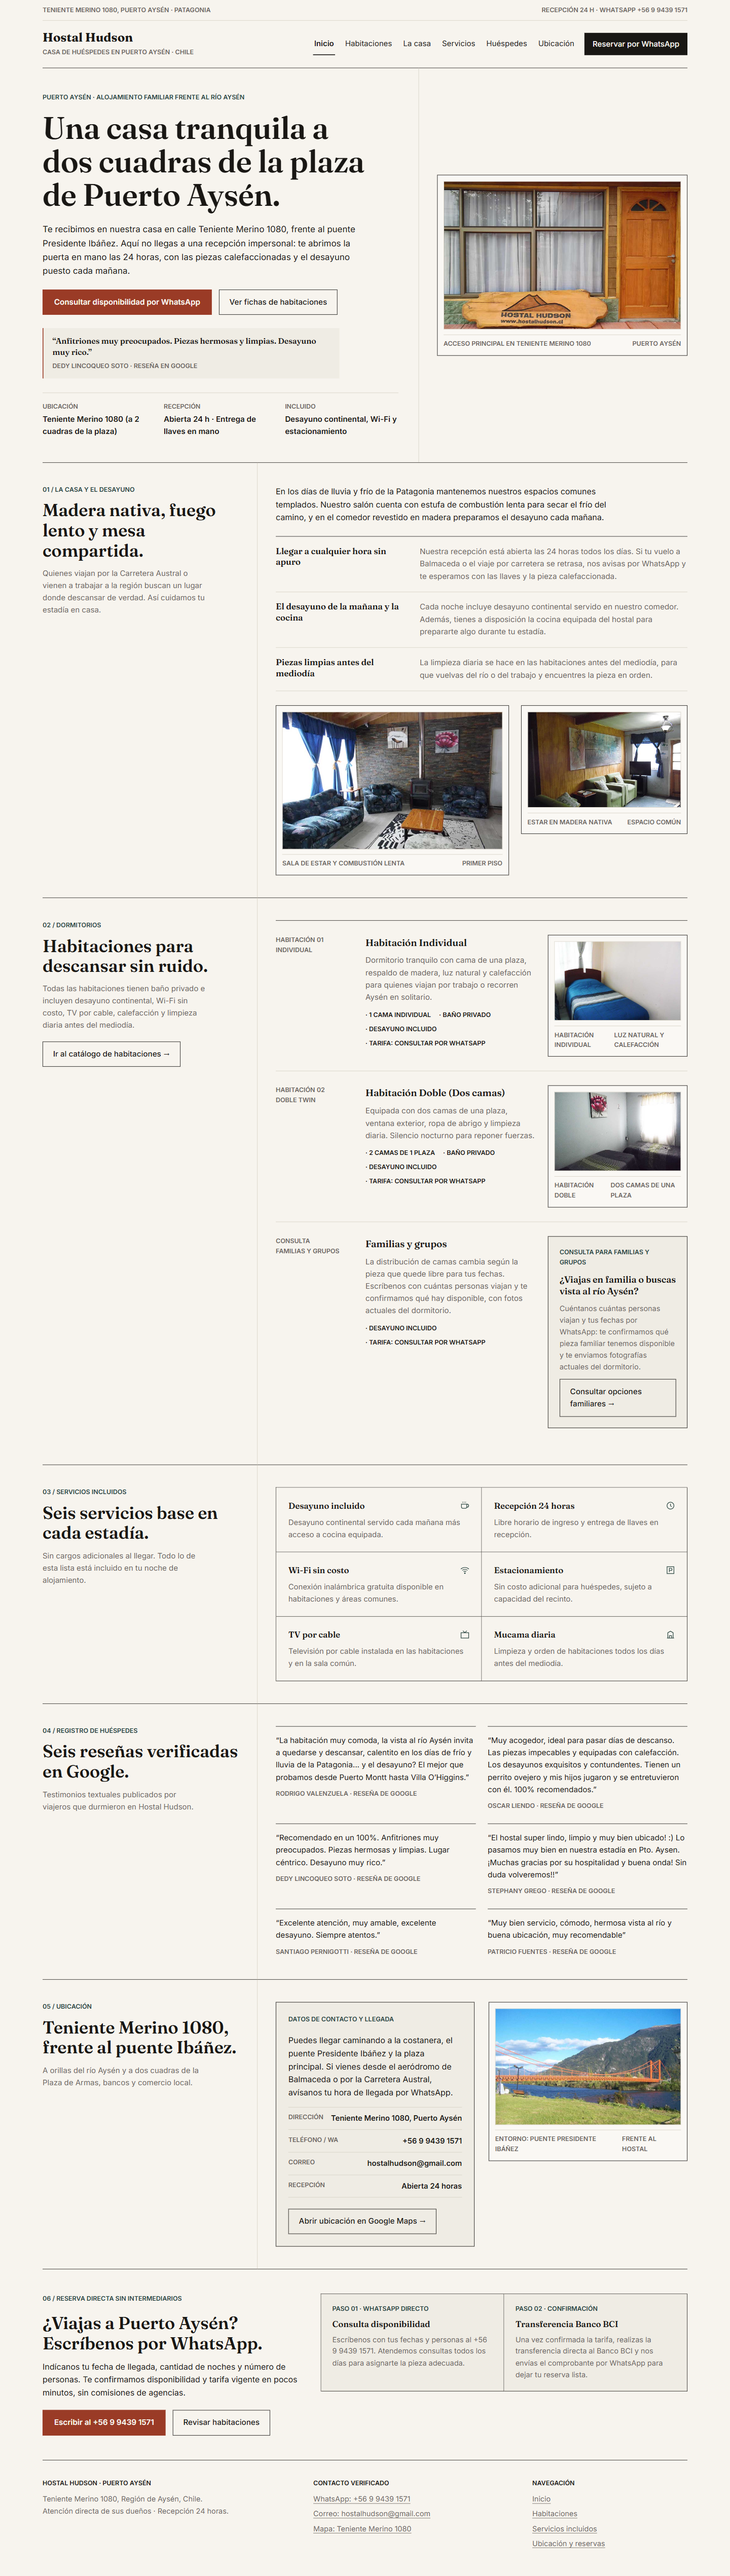
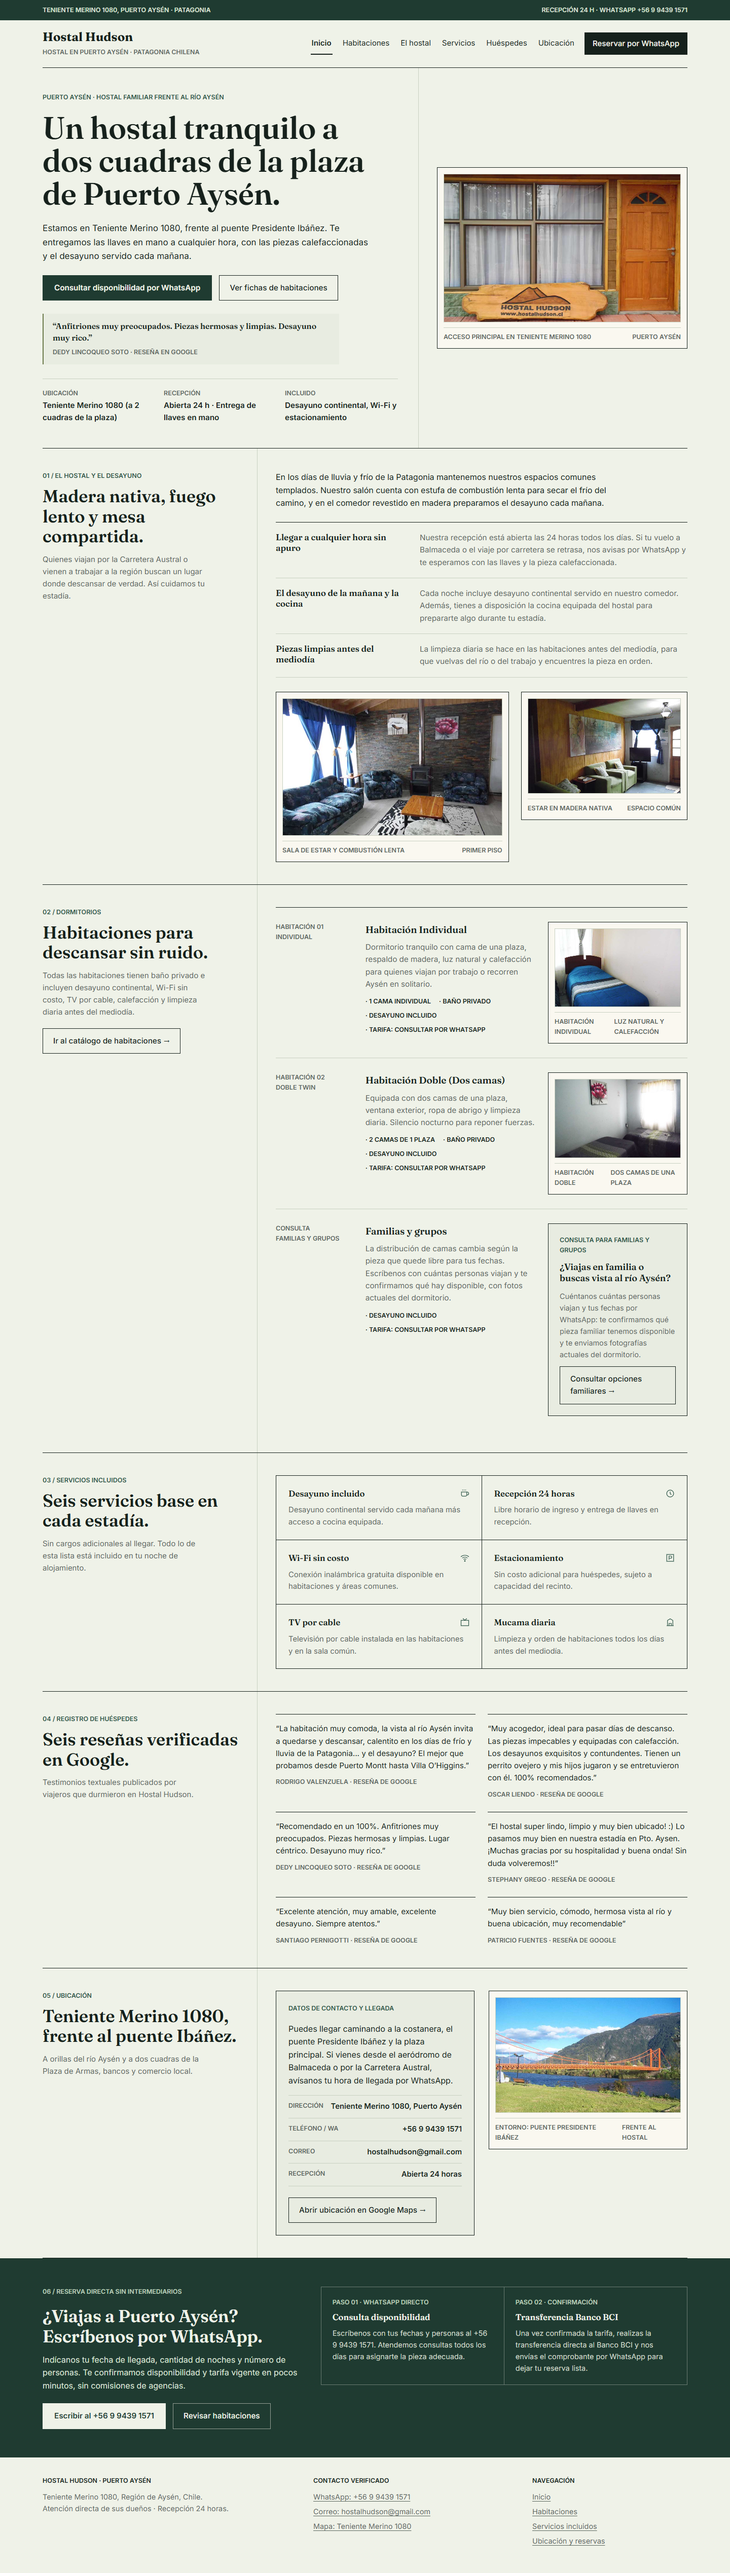
diseno: paleta verde y textos sin casa en la ruta A

diff --git a/docs/diseno/rutas/a-editorial-sobrio/styles.css b/docs/diseno/rutas/a-editorial-sobrio/styles.css
@@ -20,15 +20,16 @@
 }
 
 :root {
-  --bg-paper: #F7F4EE;
-  --bg-sheet: #EFECE4;
-  --bg-frame: #FAF8F4;
-  --ink: #191714;
-  --ink-muted: #6B655D;
-  --accent-oxide: #9A3B26;
-  --accent-forest: #24413C;
-  --rule-strong: #191714;
-  --rule-soft: #D5CFC3;
+  --bg-paper: #EFF2E8;
+  --bg-sheet: #E8ECE1;
+  --bg-frame: #FAF8F0;
+  --ink: #16211C;
+  --ink-muted: #5B675E;
+  --accent: #1F3B31;
+  --accent-soft: #2C5446;
+  --moss: #6C7A4B;
+  --rule-strong: #16211C;
+  --rule-soft: #C9D1C2;
 
   --font-display: 'Fraunces', 'FrauncesLocal', Georgia, 'Times New Roman', serif;
   --font-body: 'Inter', 'InterLocal', -apple-system, BlinkMacSystemFont, 'Segoe UI', sans-serif;
@@ -78,7 +79,7 @@ a {
 
 a:focus-visible,
 button:focus-visible {
-  outline: 2px solid var(--accent-oxide);
+  outline: 2px solid var(--accent);
   outline-offset: 3px;
 }
 
@@ -97,13 +98,16 @@ button:focus-visible {
 
 /* Barra superior de datos reales */
 .masthead-meta {
-  border-bottom: 1px solid var(--rule-soft);
+  background-color: var(--accent);
+  border-bottom: none;
+  margin-left: calc(50% - 50vw);
+  margin-right: calc(50% - 50vw);
   font-family: var(--font-body);
   font-size: var(--size-meta);
   font-weight: 600;
   text-transform: uppercase;
-  color: var(--ink-muted);
-  padding: 10px 0;
+  color: #D8E0D3;
+  padding: 10px calc(50vw - 50%);
   display: flex;
   justify-content: space-between;
   align-items: center;
@@ -181,7 +185,7 @@ button:focus-visible {
 }
 
 .site-nav a.nav-cta:hover {
-  background-color: var(--accent-oxide);
+  background-color: var(--accent);
 }
 
 /* Hero editorial 7/5 con foto contenida como documento */
@@ -204,7 +208,7 @@ button:focus-visible {
   font-family: var(--font-body);
   font-size: var(--size-meta);
   font-weight: 600;
-  color: var(--accent-forest);
+  color: var(--accent-soft);
   text-transform: uppercase;
   margin-bottom: 18px;
   display: block;
@@ -235,7 +239,7 @@ button:focus-visible {
 }
 
 .hero-pullquote {
-  border-left: 2px solid var(--accent-oxide);
+  border-left: 2px solid var(--moss);
   background-color: var(--bg-sheet);
   padding: 14px 18px;
   margin-bottom: 28px;
@@ -266,12 +270,12 @@ button:focus-visible {
   justify-content: center;
   min-height: 46px;
   padding: 12px 22px;
-  background-color: var(--accent-oxide);
+  background-color: var(--accent);
   color: var(--bg-paper);
   text-decoration: none;
   font-weight: 600;
   font-size: 0.95rem;
-  border: 1px solid var(--accent-oxide);
+  border: 1px solid var(--accent);
 }
 
 .btn-primary:hover {
@@ -375,7 +379,7 @@ button:focus-visible {
   font-size: var(--size-meta);
   font-weight: 600;
   text-transform: uppercase;
-  color: var(--accent-forest);
+  color: var(--accent-soft);
   display: block;
   margin-bottom: 10px;
 }
@@ -509,7 +513,7 @@ button:focus-visible {
   font-size: var(--size-meta);
   font-weight: 600;
   text-transform: uppercase;
-  color: var(--accent-forest);
+  color: var(--accent-soft);
   display: block;
 }
 
@@ -557,7 +561,7 @@ button:focus-visible {
 .service-icon-svg {
   width: 18px;
   height: 18px;
-  stroke: var(--accent-forest);
+  stroke: var(--accent-soft);
   stroke-width: 1.6;
   fill: none;
 }
@@ -642,6 +646,70 @@ button:focus-visible {
   align-items: start;
 }
 
+.cta-strip {
+  background-color: var(--accent);
+  color: var(--bg-paper);
+  margin-left: calc(50% - 50vw);
+  margin-right: calc(50% - 50vw);
+  padding-left: calc(50vw - 50%);
+  padding-right: calc(50vw - 50%);
+  padding-top: 56px;
+  padding-bottom: 56px;
+  border-bottom: none;
+}
+
+.cta-strip .folio-label {
+  color: #B9CBB9;
+}
+
+.cta-strip .section-title {
+  color: var(--bg-paper);
+}
+
+.cta-strip .prose-measure {
+  color: #D8E0D3;
+}
+
+.cta-strip .btn-primary {
+  background-color: var(--bg-paper);
+  border-color: var(--bg-paper);
+  color: var(--accent);
+}
+
+.cta-strip .btn-primary:hover {
+  background-color: #DDE5D5;
+  border-color: #DDE5D5;
+}
+
+.cta-strip .btn-secondary {
+  color: var(--bg-paper);
+  border-color: rgba(245, 243, 234, 0.55);
+}
+
+.cta-strip .btn-secondary:hover {
+  border-color: var(--bg-paper);
+  background-color: rgba(245, 243, 234, 0.08);
+}
+
+.cta-strip .booking-steps {
+  border-top-color: rgba(245, 243, 234, 0.35);
+  border-left-color: rgba(245, 243, 234, 0.35);
+}
+
+.cta-strip .booking-step {
+  background-color: transparent;
+  border-right-color: rgba(245, 243, 234, 0.35);
+  border-bottom-color: rgba(245, 243, 234, 0.35);
+}
+
+.cta-strip .booking-step-tag {
+  color: #B9CBB9;
+}
+
+.cta-strip .booking-step p {
+  color: #CFD9CA;
+}
+
 .booking-steps {
   display: grid;
   grid-template-columns: repeat(2, 1fr);
@@ -661,7 +729,7 @@ button:focus-visible {
   font-size: var(--size-meta);
   font-weight: 600;
   text-transform: uppercase;
-  color: var(--accent-forest);
+  color: var(--accent-soft);
   display: block;
   margin-bottom: 6px;
 }

diff --git a/docs/diseno/rutas/a-editorial-sobrio/index.html b/docs/diseno/rutas/a-editorial-sobrio/index.html
@@ -19,7 +19,7 @@
     <header class="site-header" id="site-header">
       <div class="brand-block">
         <a class="brand-name" href="index.html">Hostal Hudson</a>
-        <span class="brand-sub">CASA DE HUÉSPEDES EN PUERTO AYSÉN · CHILE</span>
+        <span class="brand-sub">HOSTAL EN PUERTO AYSÉN · PATAGONIA CHILENA</span>
       </div>
       <button type="button" class="nav-toggle" id="nav-toggle" aria-expanded="false" aria-controls="primary-nav" aria-label="Abrir menú de navegación">
         <svg viewBox="0 0 24 24" aria-hidden="true">
@@ -32,7 +32,7 @@
       <nav class="site-nav" id="primary-nav" aria-label="Navegación principal">
         <a href="index.html" aria-current="page">Inicio</a>
         <a href="habitaciones.html">Habitaciones</a>
-        <a href="#la-casa">La casa</a>
+        <a href="#el-hostal">El hostal</a>
         <a href="#servicios">Servicios</a>
         <a href="#resenas">Huéspedes</a>
         <a href="#ubicacion">Ubicación</a>
@@ -45,11 +45,11 @@
       <section class="hero-editorial" aria-labelledby="hero-heading">
         <div class="hero-copy">
           <div>
-            <span class="folio-label">PUERTO AYSÉN · ALOJAMIENTO FAMILIAR FRENTE AL RÍO AYSÉN</span>
-            <h1 id="hero-heading" class="hero-title">Una casa tranquila a dos cuadras de la plaza de Puerto Aysén.</h1>
+            <span class="folio-label">PUERTO AYSÉN · HOSTAL FAMILIAR FRENTE AL RÍO AYSÉN</span>
+            <h1 id="hero-heading" class="hero-title">Un hostal tranquilo a dos cuadras de la plaza de Puerto Aysén.</h1>
             <p class="hero-lead">
-              Te recibimos en nuestra casa en calle Teniente Merino 1080, frente al puente Presidente Ibáñez.
-              Aquí no llegas a una recepción impersonal: te abrimos la puerta en mano las 24 horas, con las piezas calefaccionadas y el desayuno puesto cada mañana.
+              Estamos en Teniente Merino 1080, frente al puente Presidente Ibáñez.
+              Te entregamos las llaves en mano a cualquier hora, con las piezas calefaccionadas y el desayuno servido cada mañana.
             </p>
             <div class="hero-actions">
               <a class="btn-primary" href="https://wa.me/56994391571?text=Hola%20Hostal%20Hudson%2C%20quisiera%20consultar%20disponibilidad">Consultar disponibilidad por WhatsApp</a>
@@ -93,13 +93,13 @@
         </div>
       </section>
 
-      <!-- 01 / LA CASA Y EL DESAYUNO -->
-      <section id="la-casa" class="editorial-section" aria-labelledby="sec-casa">
+      <!-- 01 / EL HOSTAL Y EL DESAYUNO -->
+      <section id="el-hostal" class="editorial-section" aria-labelledby="sec-hostal">
         <div class="section-index">
-          <span class="section-num">01 / LA CASA Y EL DESAYUNO</span>
-          <h2 id="sec-casa" class="section-title">Madera nativa, fuego lento y mesa compartida.</h2>
+          <span class="section-num">01 / EL HOSTAL Y EL DESAYUNO</span>
+          <h2 id="sec-hostal" class="section-title">Madera nativa, fuego lento y mesa compartida.</h2>
           <p class="section-note">
-            Quienes viajan por la Carretera Austral o vienen a trabajar a la región buscan un lugar donde descansar de verdad. Así cuidamos tu estadía en casa.
+            Quienes viajan por la Carretera Austral o vienen a trabajar a la región buscan un lugar donde descansar de verdad. Así cuidamos tu estadía.
           </p>
         </div>
         <div class="section-body">

diff --git a/docs/diseno/rutas/a-editorial-sobrio/habitaciones.html b/docs/diseno/rutas/a-editorial-sobrio/habitaciones.html
@@ -19,7 +19,7 @@
     <header class="site-header" id="site-header">
       <div class="brand-block">
         <a class="brand-name" href="index.html">Hostal Hudson</a>
-        <span class="brand-sub">CASA DE HUÉSPEDES EN PUERTO AYSÉN · CHILE</span>
+        <span class="brand-sub">HOSTAL EN PUERTO AYSÉN · PATAGONIA CHILENA</span>
       </div>
       <button type="button" class="nav-toggle" id="nav-toggle" aria-expanded="false" aria-controls="primary-nav" aria-label="Abrir menú de navegación">
         <svg viewBox="0 0 24 24" aria-hidden="true">
@@ -32,7 +32,7 @@
       <nav class="site-nav" id="primary-nav" aria-label="Navegación principal">
         <a href="index.html">Inicio</a>
         <a href="habitaciones.html" aria-current="page">Habitaciones</a>
-        <a href="index.html#la-casa">La casa</a>
+        <a href="index.html#el-hostal">El hostal</a>
         <a href="index.html#servicios">Servicios</a>
         <a href="index.html#resenas">Huéspedes</a>
         <a href="index.html#ubicacion">Ubicación</a>
@@ -46,7 +46,7 @@
           <span class="folio-label">NUESTRAS HABITACIONES · PUERTO AYSÉN</span>
           <h1 id="rooms-heading" class="hero-title" style="margin-bottom: 14px;">Dormitorios calefaccionados para un descanso reparador.</h1>
           <p class="hero-lead" style="margin-bottom: 0;">
-            En nuestra casa todas las habitaciones tienen baño privado e incluyen desayuno continental servido en el comedor de madera, conexión Wi-Fi gratuita, televisión por cable, limpieza diaria antes del mediodía y recepción las 24 horas.
+            Todas las habitaciones tienen baño privado e incluyen desayuno continental servido en el comedor de madera, conexión Wi-Fi gratuita, televisión por cable, limpieza diaria antes del mediodía y recepción las 24 horas.
           </p>
         </div>
         <div class="coord-box">
@@ -222,7 +222,7 @@
           <span class="section-num">ESPACIOS COMUNES</span>
           <h2 id="common-heading" class="section-title">Salón a leña, comedor y cocina compartida.</h2>
           <p class="section-note">
-            Además de tu dormitorio, en nuestra casa puedes sentarte junto a la combustión lenta, tomar desayuno en el comedor de madera o usar la cocina equipada.
+            Además de tu dormitorio, puedes sentarte junto a la combustión lenta, tomar desayuno en el comedor de madera o usar la cocina equipada.
           </p>
         </div>
         <div class="section-body">

diff --git a/docs/diseno/rutas/a-editorial-sobrio/notas.md b/docs/diseno/rutas/a-editorial-sobrio/notas.md
@@ -24,14 +24,24 @@ Sobre la base refinada por Antigravity se corrigió lo que todavía afirmaba dat
 - El pie de la foto de `interior2` ya no dice "comedor": en la imagen se ve un estar con dos sillones, paneles de madera y TV.
 - El servicio de recepción ya no promete "libre horario de salida"; el check-out no está confirmado.
 - El hero usa un fragmento de Dedy Lincoqueo Soto para no repetir la misma reseña completa del bloque de huéspedes (Rodrigo Valenzuela sigue ahí).
+- **Idioma**: se retiró la palabra "casa" de todo el sitio visible. El dueño la leyó como "casa de huéspedes", un downgrade frente a hostal. Ahora el relato dice hostal, piezas y estadía, y el hero abre con "Un hostal tranquilo a dos cuadras de la plaza".
+- **Color**: se eliminó el rojo óxido y se pasó a una paleta verde de Patagonia (papel `#EFF2E8`, verde profundo `#1F3B31`, verde medio `#2C5446`, musgo `#6C7A4B`). El verde profundo se usa en la barra superior, el CTA y la banda de reservas a sangre.
 
 ## Color
-- **Papel base**: `#F7F4EE`
-- **Papel secundario (fichas y citas)**: `#EFECE4`
-- **Paspartú de foto**: `#FAF8F4`
-- **Tinta principal**: `#191714`
-- **Tinta secundaria**: `#6B655D`
-- **Acentos**: Óxido `#9A3B26` (reservado para el CTA principal y filete de cita) y Verde profundo `#24413C` (rótulos de sección e iconografía lineal).
+
+Paleta verde de Patagonia, sin rojo. El rojo óxido de la primera versión se retiró porque el dueño lo leyó como una señal equivocada para un hostal familiar.
+
+- **Papel base**: `#EFF2E8` (blanco verdoso)
+- **Papel secundario (fichas, citas, cajas)**: `#E8ECE1`
+- **Paspartú de foto**: `#FAF8F0`
+- **Tinta principal**: `#16211C` (verde tinta)
+- **Tinta secundaria**: `#5B675E`
+- **Verde profundo (CTA, barra superior y banda de reservas)**: `#1F3B31`
+- **Verde medio (rótulos e iconos)**: `#2C5446`
+- **Musgo (filete de cita)**: `#6C7A4B`
+- **Filetes**: `#16211C` y `#C9D1C2`
+
+Los verdes no son decorativos: la barra superior de datos, el CTA principal y la banda de reservas usan el verde profundo como color de marca. El papel y las fichas llevan el verde en versión pálida.
 
 ## Tratamiento fotográfico
 - **Foto como lámina en paspartú**: contenida dentro de un marco de papel (`padding: 12px; border: 1px solid #191714`), esquinas rectas (`0px`), sin superar sus `800×500 px` nativos y con pies de foto limpios pensados para el huésped (sin rótulos internos ni metadatos técnicos).
